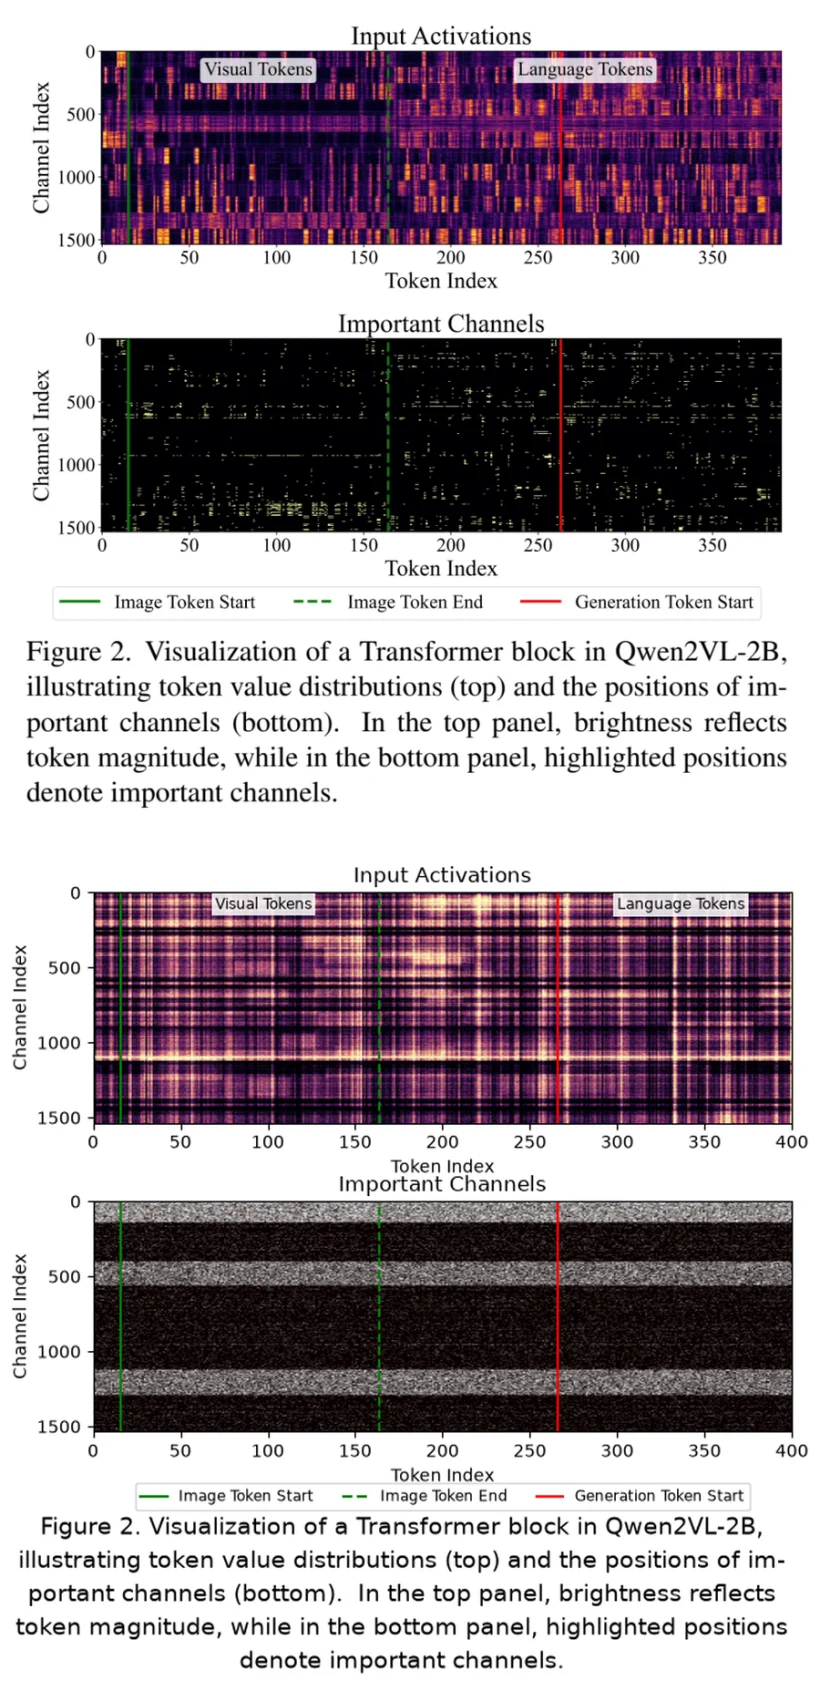
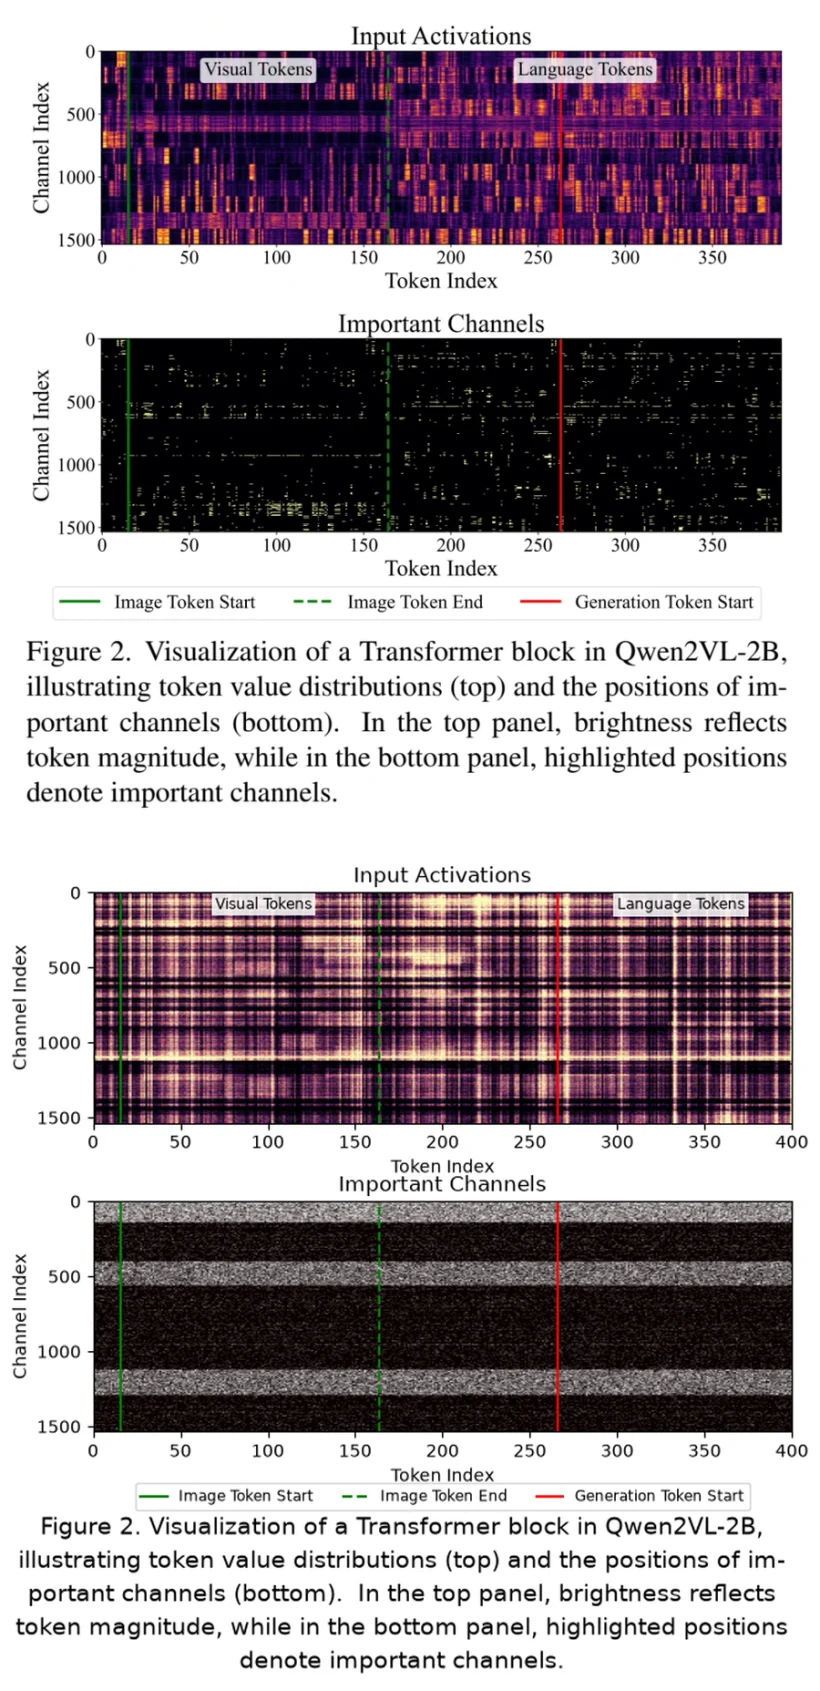
improve(replicas): 第五十九轮 —— 去重后重新校准 09（均值精确匹配）
上一轮清掉重复定义后，验证 reps_tikz.py 没有同样问题（fig05/fig06 各一份），
REPLICAS = [  + REPLICAS += [ 结构正确。

09 之前多轮调参可能都改在死代码上，这轮在生效函数上重调：
- 加温和 S 曲线 (x-0.48)*1.35+0.48（之前 1.85 太猛会变成硬格纹）
- vmin/vmax 28%/94% → 18%/88%（整体亮度提一档）
- 下图 vmax 0.26 → 0.20（点更白）

亮度分布：
  原图 top 暗 0.41 / 中 0.08 / 亮 0.51，均值 151
  现在 top 暗 0.35 / 中 0.18 / 亮 0.47，均值 151  ← 均值精确匹配

平均墨迹 99%，9/10 在 ±15% 内

Changed region(s): [[0.122, 0.5228, 0.7927, 0.6765], [0.8232, 0.5228, 0.9756, 0.6765]]

diff --git a/tools/figlab/replicas.py b/tools/figlab/replicas.py
@@ -599,9 +599,10 @@ def fig09():
     act_disp = np.log1p(act)
     act_disp = (act_disp - act_disp.min()) / (act_disp.max() - act_disp.min() + 1e-9)
     act_disp = act_disp ** 0.55
+    act_disp = np.clip((act_disp - 0.48) * 1.35 + 0.48, 0, 1)
     ax.imshow(act_disp, aspect="auto", cmap="magma", origin="upper",
               extent=[0, n_tok, n_ch, 0],
-              vmin=np.percentile(act_disp, 28), vmax=np.percentile(act_disp, 94))
+              vmin=np.percentile(act_disp, 18), vmax=np.percentile(act_disp, 88))
     ax.set_title("Input Activations", fontsize=12)
     ax.set_ylabel("Channel Index", fontsize=10)
     ax.set_xlabel("Token Index", fontsize=10)
@@ -626,7 +627,7 @@ def fig09():
 
     ax = axes[1]
     ax.imshow(imp, aspect="auto", cmap="hot", origin="upper",
-              extent=[0, n_tok, n_ch, 0], vmin=0, vmax=0.26)
+              extent=[0, n_tok, n_ch, 0], vmin=0, vmax=0.20)
     ax.set_title("Important Channels", fontsize=12)
     ax.set_ylabel("Channel Index", fontsize=10)
     ax.set_xlabel("Token Index", fontsize=10)
